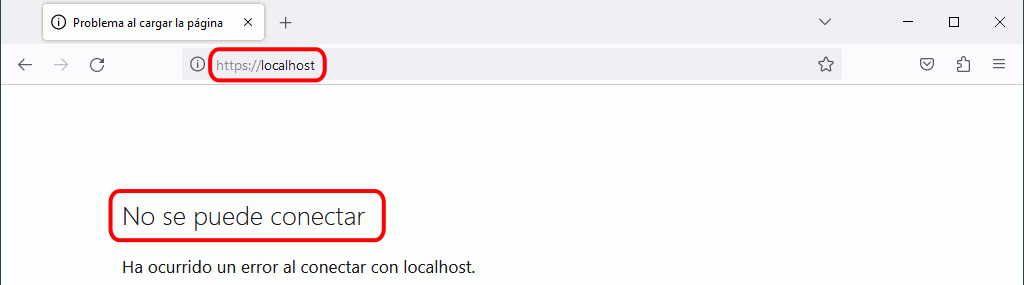
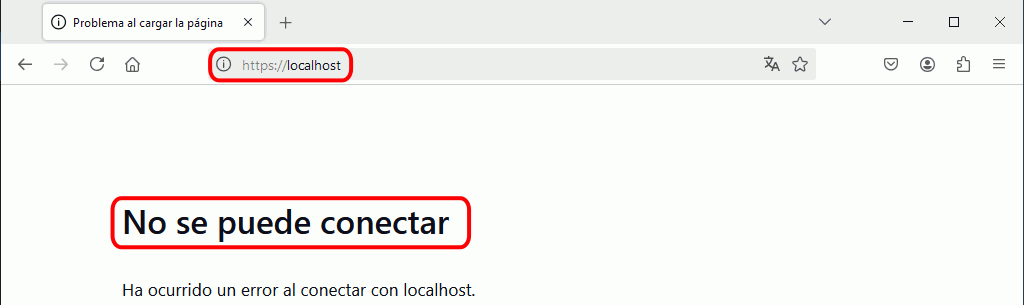
Instalación de XAMPP en Windows: actualizo a XAMPP 8.2.12

diff --git a/otros/xampp-instalacion-windows.html b/otros/xampp-instalacion-windows.html
@@ -49,7 +49,7 @@
     <p>Antes de instalar un servidor de páginas web es conveniente comprobar si no hay ya uno instalado, o al menos si no está en funcionamiento. Para ello, es suficiente con abrir el navegador y escribir la dirección <a href="http://localhost">http://localhost</a>. Si se obtiene un mensaje de error es que no hay ningún servidor de páginas web en funcionamiento (aunque podría haber algún servidor instalado, pero no estar en funcionamiento).</p>
 
     <p class="captura">
-      <img src="../img/xampp/xampp-instala-01.png" alt="Comprobación de http://localhost" title="Comprobación de http://localhost" width="1024" height="285">
+      <img src="../img/xampp/xampp-instala-01.png" alt="Comprobación de http://localhost" title="Comprobación de http://localhost" width="1024" height="305">
     </p>
 
     <hr class="corta">
@@ -510,7 +510,7 @@
   </section>
 
   <footer>
-    <p class="ultmod">Última modificación de esta página: 11 de septiembre de 2023</p>
+    <p class="ultmod">Última modificación de esta página: 12 de septiembre de 2024</p>
 
     <p class="licencia">
       <a rel="license" href="https://creativecommons.org/licenses/by-sa/4.0/deed.es"><img src="../varios/iconos/icono-cc-by-sa.svg" alt="Licencia Creative Commons" title="Licencia Creative Commons BY-SA" width="120" height="42"></a><br>
